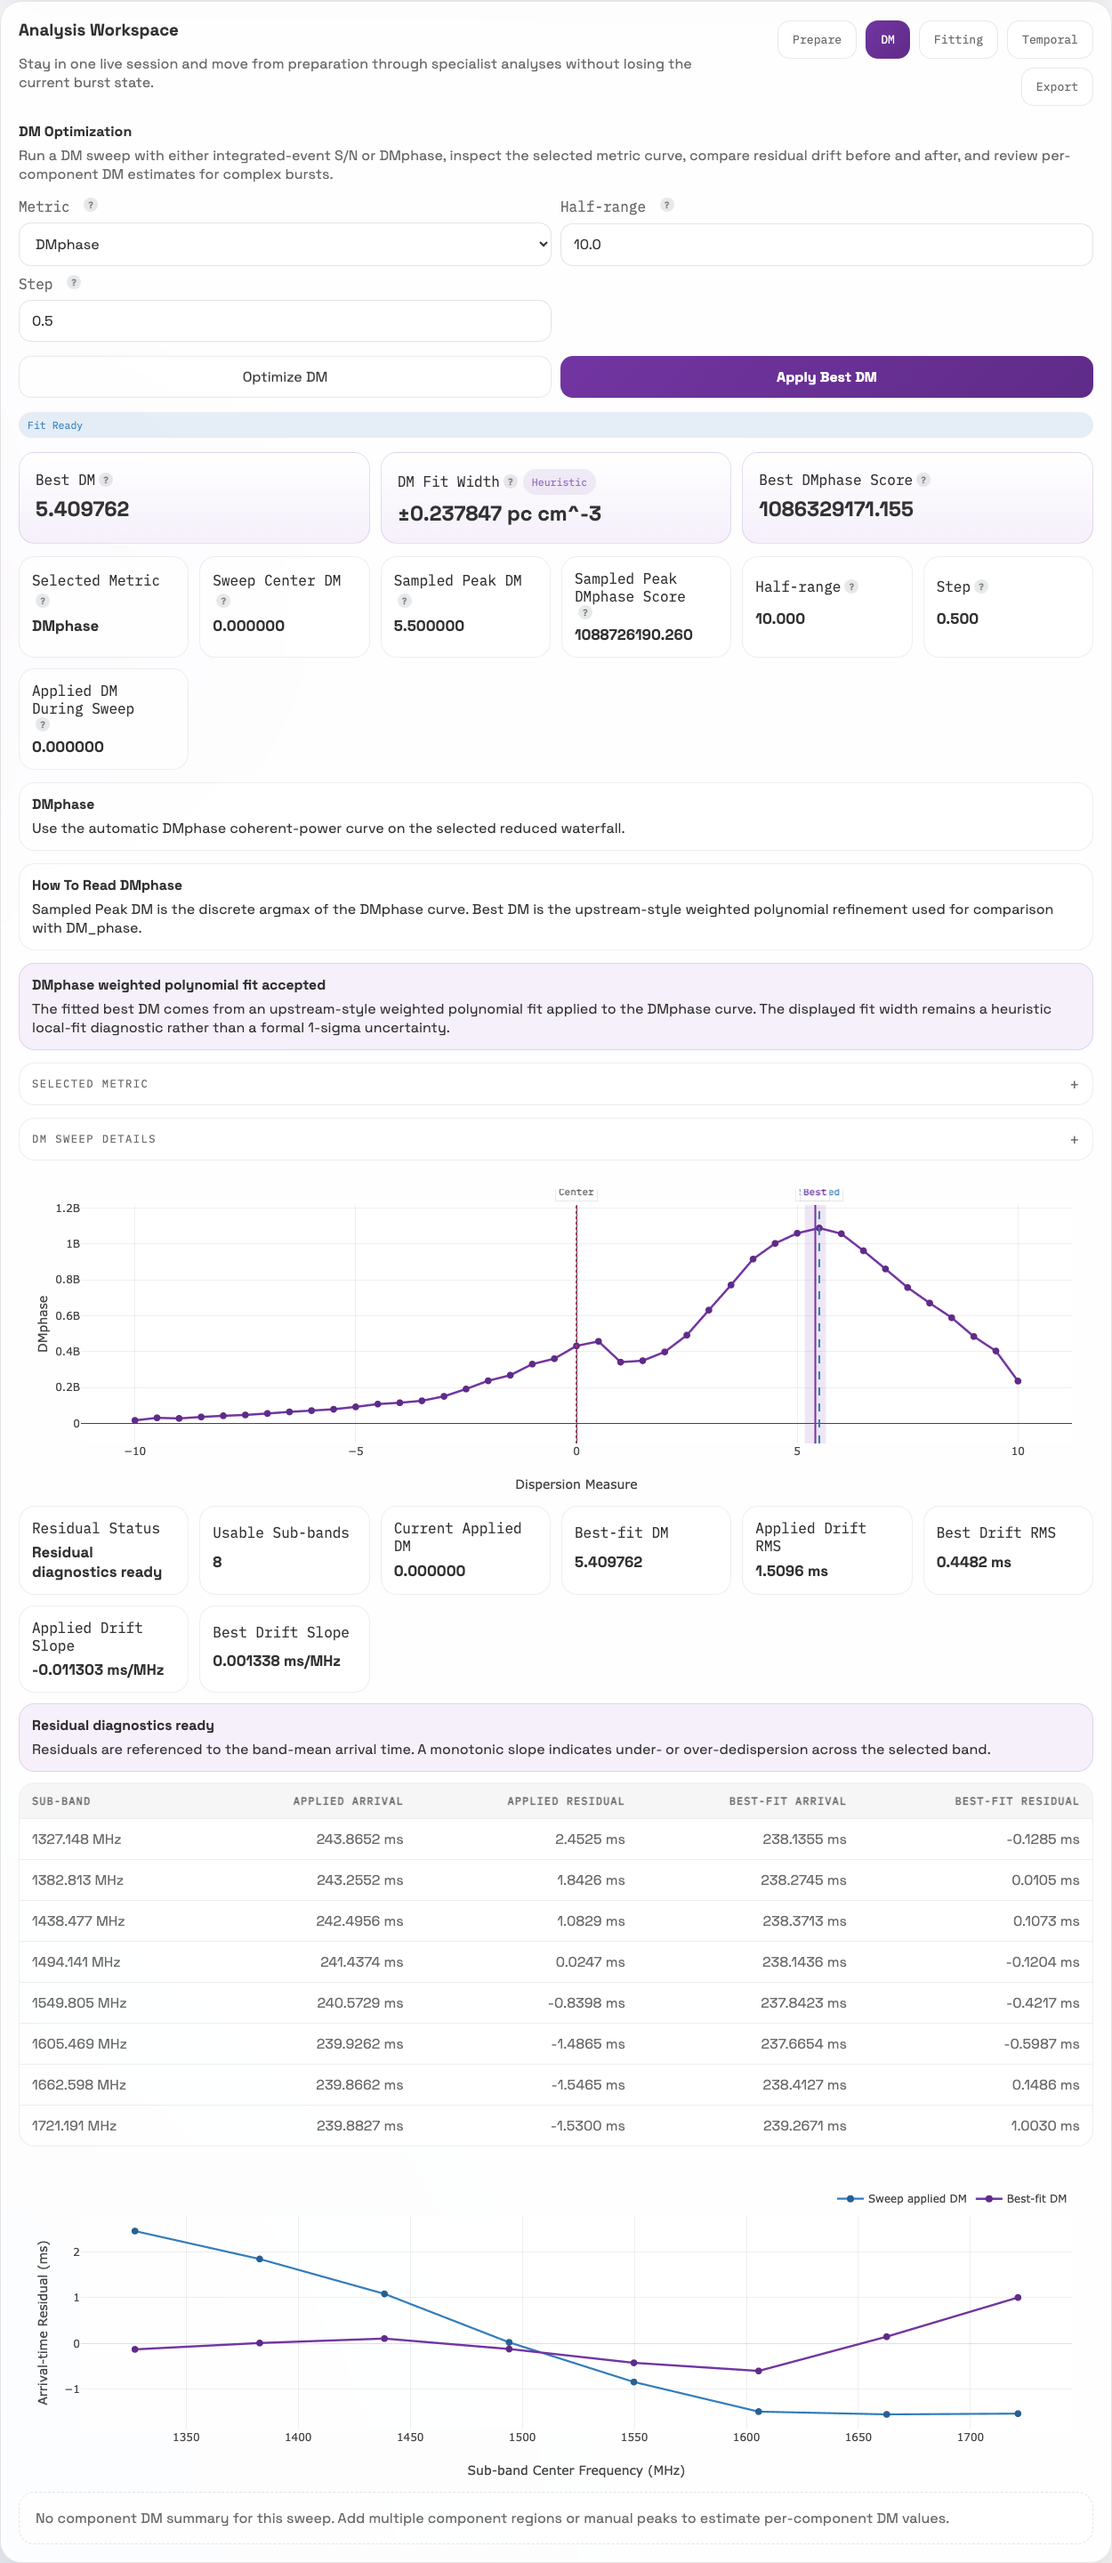
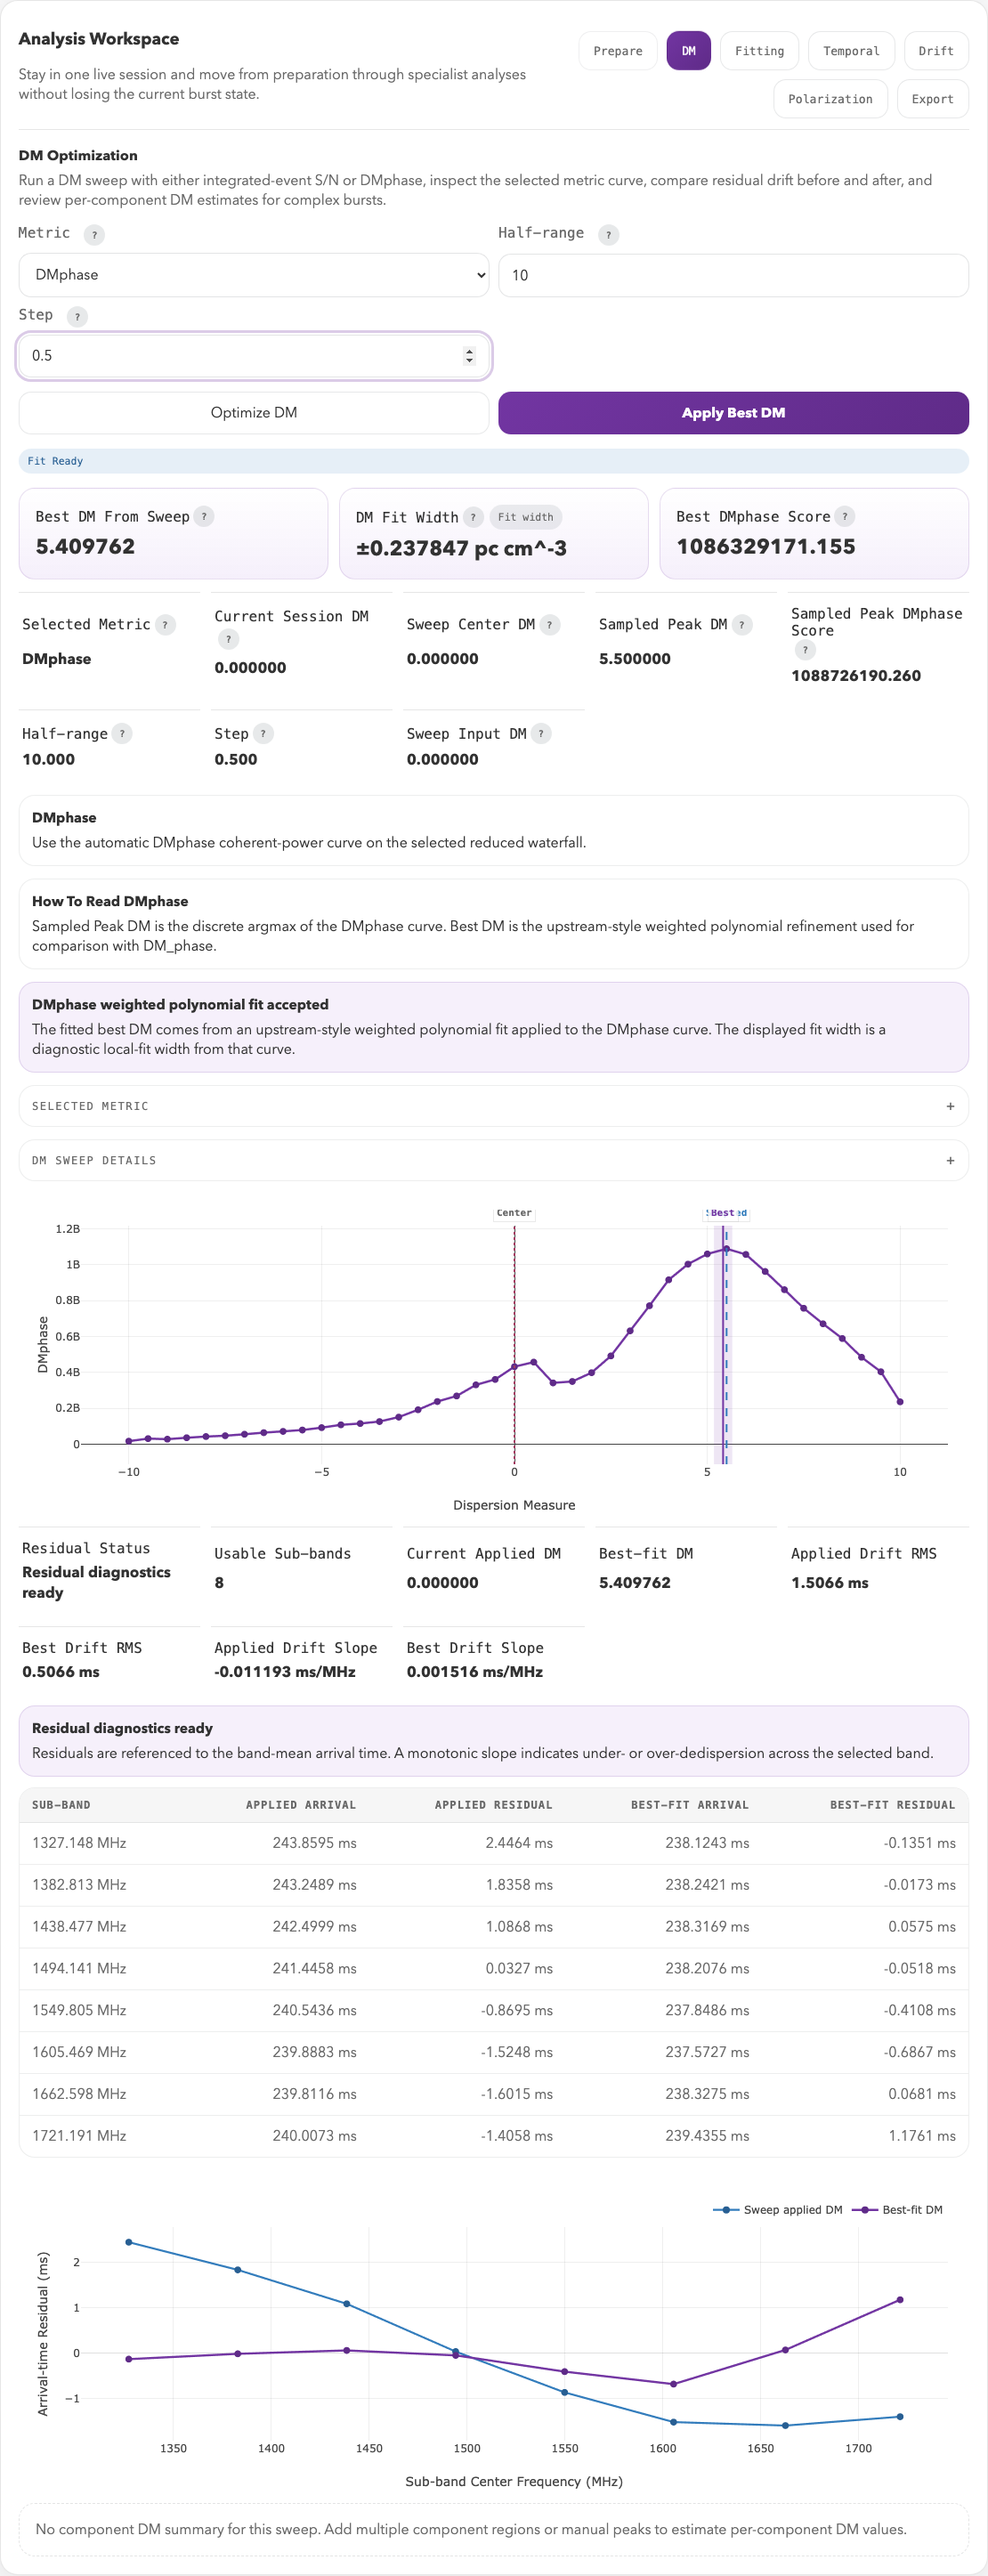
docs: illustrate FLITS workflows
Add current interface screenshots and a session-state diagram across the getting-started and analysis guides.

Release-As: 1.2.2

diff --git a/docs/guided-workflow.md b/docs/guided-workflow.md
@@ -65,6 +65,13 @@ The off-pulse windows are separate from the event and set the background and
 noise estimates. FLITS quantizes selections to available bins, so the measured
 event duration and bandwidth differ slightly from the requested bounds.
 
+![Aligned viewer with the GBT burst near 240 ms, event and off-pulse windows on the time profile, and a 1300–1750 MHz spectral window on the waterfall and frequency profile.](assets/guided-workflow/prepared-viewer.png)
+
+*Prepared GBT selection. The narrow blue band around the burst is the event
+window; the pale blue regions on either side are off-pulse references. Purple
+horizontal lines delimit the spectral window. White horizontal streaks in the
+waterfall are visible interference; this reference intentionally uses no mask.*
+
 ## 4. Compute measurements
 
 Click **Compute**. The full-precision outputs are in the downloadable
@@ -88,6 +95,13 @@ limitation of the example. Supply an independently justified calibration and
 its uncertainty before interpreting these as fully calibrated scientific
 measurements. The reference does not supply a source distance or redshift.
 
+![FLITS Prepare tab showing the GBT selection, measurement cards, signal metrics, and uncertainty flags.](assets/guided-workflow/measurement-summary.png)
+
+*The Prepare tab connects the selected windows to the measured quantities.
+Fluence and peak flux carry a “Statistical only” label because this example
+does not provide an SEFD uncertainty. The displayed TOA fields are outside
+the validated reference checks for this already-dedispersed cutout.*
+
 ## 5. Run a residual DM sweep
 
 In the **DM** tab, select **DMphase**, center `0`, half range `10`, and step
@@ -98,6 +112,12 @@ Keep the session DM at zero for comparison with the reference; applying the
 best-fit value changes the data used for the measurements above. This sweep
 demonstrates the diagnostic and does not establish a new astrophysical DM for
 the source.
+
+![DMphase tab showing a sweep centered at zero with a sampled peak at 5.5 and fitted best residual DM near 5.41, plus sub-band residual-arrival-time diagnostics.](assets/guided-workflow/dm-sweep.png)
+
+*Read the score curve together with the residual diagnostics below it. The
+sampled peak and fitted best DM are distinct. This screenshot illustrates the
+residual sweep; the exact reference values are in the downloadable summary.*
 
 ## 6. Save and replay the session
 

diff --git a/docs/user-guide/exports-and-snapshots.md b/docs/user-guide/exports-and-snapshots.md
@@ -15,6 +15,12 @@ Use the export workflow when you want shareable outputs such as:
 The export preview helps you see what is currently available from the session
 state before downloading anything.
 
+![FLITS Export tab with Science JSON selected in the export planner and the corresponding artifact in the preview.](../assets/guided-workflow/export-panel.png)
+
+*Choose output types on the left and inspect the exact artifact list on the
+right. **Build Export Bundle** creates the selected products from the current
+session state.*
+
 ## Session snapshots
 
 Session snapshots capture the analysis state itself rather than just the final
@@ -30,6 +36,11 @@ Use **Save Session** to write the current session next to the source data in a
 timestamped copy instead. The **Saved Sessions** browser can search stored
 snapshots by source, file name, note text, preset, and DM, then reopen a
 matching session directly.
+
+![FLITS Session sidebar showing Save Session, Save Copy, Download JSON, Upload JSON, and the Saved Sessions browser.](../assets/guided-workflow/session-panel.png)
+
+*The Session panel saves or reopens the full interactive state. **Download JSON**
+makes a portable snapshot; the Export tab above builds derived artifacts.*
 
 Snapshots do not embed the raw filterbank data. To share a snapshot with someone
 else, use **Download JSON** or send the saved JSON file and make sure they start

diff --git a/docs/user-guide/session-workflow.md b/docs/user-guide/session-workflow.md
@@ -4,6 +4,11 @@ FLITS is centered on the current session state. Most analysis products depend on
 the same crop window, event window, off-pulse definition, spectral window, and
 mask selection.
 
+![Diagram of a FLITS session: source data and DM feed prepared selections, which feed measurements and analysis tabs, then exports and snapshots.](../assets/session-state.svg)
+
+*The preparation state is shared by the measurement and analysis tabs. Save a
+snapshot when you want to preserve the selections as well as the results.*
+
 ## Typical order of operations
 
 1. Load a filterbank and DM.
@@ -29,6 +34,13 @@ Use the Prepare workflow to set the core analysis state:
 - channel masks
 
 This state feeds the later analysis tabs.
+
+![GBT burst in the aligned viewer with time, waterfall, and frequency profiles and marked event, off-pulse, and spectral selections.](../assets/guided-workflow/prepared-viewer.png)
+
+*The top plot is the time profile, the middle plot is the dynamic spectrum, and
+the plot at right is the frequency profile. Select an interaction mode above
+the plots, then click the plot to set its bounds. **Exact Selection** below the
+toolbar accepts coordinates directly when you need reproducible boundaries.*
 
 ## Measurement mindset
 

diff --git a/docs/getting-started.md b/docs/getting-started.md
@@ -25,6 +25,10 @@ flits --data-dir /path/to/filterbanks --host 127.0.0.1 --port 8123
 
 Open `http://127.0.0.1:8123`.
 
+The browser opens with a **New Session** form. Choose the source file and DM
+there, then use **Load Session**. The **Session** panel in the left sidebar is
+for saving or reopening a session after it has loaded.
+
 ## 3. Load a burst file
 
 FLITS reads SIGPROC filterbank (`.fil`), PSRFITS search/fold data (`.fits`,
@@ -44,6 +48,11 @@ Inside the UI:
 If FLITS can identify the observing setup, it may populate default calibration
 values such as SEFD. If it cannot, use the generic preset or set an explicit
 SEFD yourself.
+
+![New Session form with the tutorial filterbank selected, DM set to zero, the GBT preset, and the Load Session button.](assets/guided-workflow/load-session.png)
+
+*The New Session form for the [GBT example](guided-workflow.md). For your own
+data, choose your file and its appropriate DM before loading.*
 
 ## 4. Work through the session
 

diff --git a/docs/analysis/temporal-spectral.md b/docs/analysis/temporal-spectral.md
@@ -53,6 +53,12 @@ is built to remove exactly this S/N dependence.
 
 ## ACF widths are not durations
 
+![Temporal and spectral autocorrelation functions for the guided GBT burst, with a dashed half-maximum reference line.](../assets/guided-workflow/temporal-acf.png)
+
+*The dashed line marks normalized ACF = 0.5. Its intersections with the curves
+give self-similarity widths in time and frequency for the [GBT example](../guided-workflow.md),
+not the manually selected event duration.*
+
 An ACF width is a self-similarity scale. It is a good way to compare coherence
 structure between bursts or between time and frequency, but it is not
 interchangeable with the full burst duration, and the two can differ by a large

diff --git a/docs/index.md b/docs/index.md
@@ -9,6 +9,12 @@ formats include SIGPROC filterbank (`.fil`), PSRFITS search/fold data
 catalog waterfalls and beamformed `BBData` power files, extensible via a
 plugin-based reader framework.
 
+![FLITS aligned viewer showing a GBT burst, its time profile, dynamic spectrum, frequency profile, event and off-pulse windows, and selected spectral band.](assets/guided-workflow/prepared-viewer.png)
+
+*The aligned viewer in the [GBT guided workflow](guided-workflow.md). Blue marks
+the event and off-pulse time windows; purple lines mark the selected frequency
+range. The three plots share the same selection state.*
+
 ## Why FLITS exists
 
 Measuring a detected burst involves selecting an event window and noise

diff --git a/docs/analysis/dm-optimization.md b/docs/analysis/dm-optimization.md
@@ -105,6 +105,13 @@ That state is what the session snapshot records.
 
 ## Reading the result
 
+![DMphase score curve and residual arrival time plots from the guided GBT example.](../assets/guided-workflow/dm-sweep.png)
+
+*The DMphase curve peaks near a residual DM of 5.5 on the sampled grid; the
+weighted fit reports about 5.41. The lower plot compares sub-band arrival-time
+residuals at the applied and fitted DMs. See the [GBT guided workflow](../guided-workflow.md)
+for the inputs and interpretation limits of this example.*
+
 | Output | What to look at |
 | --- | --- |
 | Score curve | Should have a clear single maximum. Multiple comparable peaks mean the metric cannot distinguish them. |

diff --git a/README.md b/README.md
@@ -21,6 +21,11 @@ The selected analysis state is recorded in a JSON session snapshot. Given
 the snapshot and original data, `flits replay` restores the selections and
 recomputes supported measurements without a browser.
 
+![FLITS aligned viewer showing a GBT burst with its time profile, dynamic spectrum, frequency profile, and selected event, off-pulse, and spectral windows.](docs/assets/guided-workflow/prepared-viewer.png)
+
+The [guided GBT workflow](https://dirkkuiper.github.io/flits/guided-workflow/)
+walks through the selections and results shown in the interface.
+
 ## Why FLITS exists
 
 Measuring a detected burst involves selecting an event window and noise

diff --git a/docs/analysis/measurements.md b/docs/analysis/measurements.md
@@ -2,6 +2,13 @@
 
 FLITS reports measurements from the current prepared session state.
 
+![Prepare tab showing selected windows, headline measurements, signal metrics, and uncertainty flags for the GBT tutorial burst.](../assets/guided-workflow/measurement-summary.png)
+
+*The Prepare tab groups selection readiness, headline measurements, timing
+details, and uncertainty flags. These values come from the [GBT guided
+workflow](../guided-workflow.md); its absolute TOA fields are not part of the
+validated reference calculation.*
+
 ## Core outputs
 
 The measurement workflow can report:
